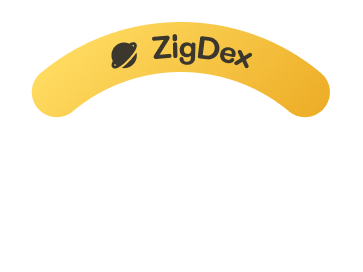
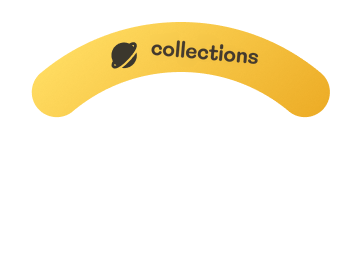
Rename collection screens in both homepage prototypes

Changed region(s): [[0.3939, 0.1176, 0.7273, 0.2647]]

diff --git a/index.html b/index.html
@@ -227,7 +227,7 @@ html,.sidebar{--scroll-thumb:rgba(205,224,214,.36)}
 </div><ul><li><button type="button" class="ia-node" data-page="idle" aria-current="page"><small>-1级</small>Idle 页面</button><ul><li><button type="button" class="ia-node" data-page="apps"><small>0级</small>App 页面</button><div class="ui-options" role="group" aria-label="App 页面交互效果"><button type="button" data-ui="1" aria-pressed="false">UI1</button><button type="button" data-ui="1.1" aria-pressed="false">UI1.1</button><button type="button" data-ui="2" aria-pressed="false">UI2</button><button type="button" data-ui="3" aria-pressed="false">UI3</button><button type="button" data-ui="4" aria-pressed="false">UI4</button></div><ul><li><button type="button" class="ia-node" data-page="guide"><small>1级</small>图鉴列表</button><ul><li><button type="button" class="ia-node" data-page="guide-camera"><small>2级</small>图鉴拍摄</button></li></ul></li><li><button type="button" class="ia-node" data-page="camera"><small>1级</small>拍照探索</button><ul><li><button type="button" class="ia-node" data-page="photo-play"><small>2级</small>拍摄互动</button></li></ul></li><li><button type="button" class="ia-node" data-page="activities"><small>1级</small>游戏大厅</button><ul><li><button type="button" class="ia-node" data-page="game-1"><small>2级</small>游戏1:颜色小偷</button></li><li><button type="button" class="ia-node" data-page="game-2"><small>2级</small>游戏 2</button></li><li><button type="button" class="ia-node" data-page="game-3"><small>2级</small>游戏 3</button></li></ul></li><li><button type="button" class="ia-node" data-page="review"><small>1级</small>我的收藏</button><ul><li><button type="button" class="ia-node" data-page="badges"><small>2级</small>徽章列表</button></li><li><button type="button" class="ia-node" data-page="photos"><small>2级</small>照片列表</button></li><li><button type="button" class="ia-node" data-page="avatar"><small>2级</small>Avatar 选择</button></li></ul></li></ul></li></ul></li></ul></section><section class="prototype-notes" aria-label="备注"><h2>备注</h2><textarea aria-label="备注内容" placeholder="点击填写备注" rows="1"></textarea><div class="note-footer"><button type="button">保存</button><span role="status"></span></div></section></aside>
 <main class="device" aria-label="首页:方案1">
   <div class="shell"></div>
-  <section class="screen" id="screen" data-page="idle" aria-label="Screen"><div class="idle-scene idle-home"><img src="idle/particle.gif" alt=""><img src="idle/A7_loop.gif" alt="Zig"></div><div class="idle-scene ui1-scene" data-app-ui="1"><img src="idle/particle.gif" alt=""><svg class="ui1-ring" viewBox="0 0 480 480" aria-label="四色圆环菜单"></svg></div><div class="idle-scene ui11-scene" data-app-ui="1.1"><img src="idle/particle.gif" alt=""><svg viewBox="0 0 480 480" class="ui1-ring" aria-label="UI1.1 扇形菜单"><defs><linearGradient id="petal-light" x2="0" y2="1"><stop stop-color="#d7d7d7"/><stop offset="1" stop-color="#777"/></linearGradient></defs><g class="ui11-wheel"><g class="petal" data-entry="Snap" data-name="Snap" data-selected="true"><path class="blade" transform="translate(21 21)" d="M380.051 95.4214C387.061 90.0421 397.16 91.3356 402.013 98.72C425.426 134.344 438 176.139 438 219C438 261.861 425.426 303.656 402.013 339.28C397.16 346.664 387.061 347.958 380.051 342.579L235.543 231.694C227.196 225.289 227.196 212.711 235.543 206.306L380.051 95.4214Z"/><g transform="translate(394 240)"><g class="upright"><image x="-35" y="-35" width="70" height="70" href="ui1/center-Snap.svg"/></g></g></g><g class="petal" data-entry="ZigDex" data-name="ZigDex" data-selected="false"><path class="blade" transform="translate(21 21)" d="M95.4214 57.9493C90.0421 50.9388 91.3356 40.8402 98.72 35.9869C134.344 12.5735 176.139 2.10044e-06 219 2.61155e-06C261.861 3.12266e-06 303.656 12.5735 339.28 35.9869C346.664 40.8402 347.958 50.9388 342.579 57.9493L231.694 202.457C225.289 210.804 212.711 210.804 206.306 202.457L95.4214 57.9493Z"/><g transform="translate(240 86)"><g class="upright"><image x="-35" y="-35" width="70" height="70" href="ui1/ZigDex.svg"/></g></g></g><g class="petal" data-entry="Quest" data-name="Quest" data-selected="false"><path class="blade" transform="translate(21 21)" d="M57.9493 342.579C50.9388 347.958 40.8402 346.664 35.9869 339.28C12.5735 303.656 1.53986e-05 261.861 1.91456e-05 219C2.28926e-05 176.139 12.5735 134.344 35.9869 98.72C40.8402 91.3356 50.9388 90.0421 57.9493 95.4214L202.457 206.306C210.804 212.711 210.804 225.289 202.457 231.694L57.9493 342.579Z"/><g transform="translate(86 240)"><g class="upright"><image x="-35" y="-35" width="70" height="70" href="ui1/center-Quest.svg"/></g></g></g><g class="petal" data-entry="Hub" data-name="Hub" data-selected="false"><path class="blade" transform="translate(21 21)" d="M342.579 380.051C347.958 387.061 346.664 397.16 339.28 402.013C303.656 425.426 261.861 438 219 438C176.139 438 134.344 425.426 98.72 402.013C91.3356 397.16 90.0421 387.061 95.4214 380.051L206.306 235.543C212.711 227.196 225.289 227.196 231.694 235.543L342.579 380.051Z"/><g transform="translate(240 394)"><g class="upright"><image x="-35" y="-35" width="70" height="70" href="ui1/center-Hub.svg"/></g></g></g></g><image href="ui11/4.svg" x="147" y="147" width="185" height="185"/><text x="240" y="250" text-anchor="middle">Snap</text></svg></div><div class="idle-scene ui11-destination"></div><div class="idle-scene ui2-scene" data-app-ui="2"><img class="original-color" src="idle/particle.gif" alt=""><div class="costume" data-entry="Snap" data-selected="true"><div class="costume-follow"><div class="snap-props"><img class="original-color snap-flowers" alt="" src="ui2/snap-motion/flowers.png"><img class="original-color snap-focus" alt="" src="ui2/snap-motion/focus.png"></div></div><img class="original-color costume-character" alt="" src="idle/A7_loop.gif" style="left:0%;top:0%;width:100%;height:100%"><img alt="" src="ui2/30-8094.png" style="left:12.325846354166668%;top:0%;width:75.44537862141928%;height:56.588%"><img alt="" src="ui2/30-8098.png" style="left:5.192057291666667%;top:24.686686197916668%;width:15.1953125%;height:23.5400390625%"><img alt="" src="ui2/30-8101.png" style="left:79.61100260416667%;top:24.686686197916668%;width:15.1953125%;height:23.5400390625%"></div><div class="costume" data-entry="ZigDex" data-selected="false"><img class="original-color costume-character" alt="" src="idle/A7_loop.gif" style="left:0%;top:0%;width:100%;height:100%"><img alt="" src="ui2/30-8110.png" style="left:12.325846354166668%;top:0%;width:75.44537862141928%;height:56.588%"><div class="costume-follow"><img class="original-color" alt="" src="ui2/30-8114.png" style="left:22.291666666666668%;top:71.66666666666667%;width:30.26894251505534%;height:22.632548014322918%"></div><img alt="" src="ui2/30-8137.png" style="left:5.192057291666667%;top:24.686686197916668%;width:15.1953125%;height:23.5400390625%"><img alt="" src="ui2/30-8140.png" style="left:79.61100260416667%;top:24.686686197916668%;width:15.1953125%;height:23.5400390625%"></div><div class="costume" data-entry="Quest" data-selected="false"><img class="original-color costume-character" alt="" src="idle/A7_loop.gif" style="left:0%;top:0%;width:100%;height:100%"><img alt="" src="ui2/30-8149.png" style="left:12.325846354166668%;top:0%;width:75.44537862141928%;height:56.588%"><div class="costume-follow"><img class="original-color" alt="" src="ui2/30-8153.png" style="left:39.79166666666667%;top:55.62542485943595%;width:29.75397169087349%;height:18.81223263590376%"></div><img alt="" src="ui2/30-8173.png" style="left:5.192057291666667%;top:24.686686197916668%;width:15.1953125%;height:23.5400390625%"><img alt="" src="ui2/30-8176.png" style="left:79.61100260416667%;top:24.686686197916668%;width:15.1953125%;height:23.5400390625%"></div><div class="costume" data-entry="Hub" data-selected="false"><img class="original-color costume-character" alt="" src="idle/A7_loop.gif" style="left:0%;top:0%;width:100%;height:100%"><div class="costume-follow"><img class="original-color" alt="" src="ui2/30-8183.png" style="left:23.125%;top:62.29166666666667%;width:44.67936197916667%;height:18.137493133544922%"></div><img alt="" src="ui2/30-8193.png" style="left:12.325846354166668%;top:0%;width:75.44537862141928%;height:56.588%"><img alt="" src="ui2/30-8197.png" style="left:5.192057291666667%;top:24.686686197916668%;width:15.1953125%;height:23.5400390625%"><img alt="" src="ui2/30-8200.png" style="left:79.61100260416667%;top:24.686686197916668%;width:15.1953125%;height:23.5400390625%"></div></div><div class="idle-scene ui3-scene" data-app-ui="3"><img src="idle/particle.gif" alt=""><img class="bubble" src="ui3/Snap.svg" alt="Snap" data-entry="Snap" data-slot="0" data-selected="true"><img class="bubble" src="ui3/ZigDex.svg" alt="ZigDex" data-entry="ZigDex" data-slot="1" data-selected="false"><img class="bubble" src="ui3/Quest.svg" alt="Quest" data-entry="Quest" data-slot="2" data-selected="false"><img class="bubble" src="ui3/Hub.svg" alt="Hub" data-entry="Hub" data-slot="3" data-selected="false"></div><div class="idle-scene ui4-scene" data-app-ui="4"><img src="idle/particle.gif" alt=""><div class="landscape snap-landscape" role="img" aria-label="Snap" data-entry="Snap" data-selected="true"><svg viewBox="0 0 480 480" aria-hidden="true"><svg class="snap-device" x="112.00587306029047" y="227" width="113" height="140" viewBox="0 0 113 140" fill="none" xmlns="http://www.w3.org/2000/svg" xmlns:xlink="http://www.w3.org/1999/xlink">
+  <section class="screen" id="screen" data-page="idle" aria-label="Screen"><div class="idle-scene idle-home"><img src="idle/particle.gif" alt=""><img src="idle/A7_loop.gif" alt="Zig"></div><div class="idle-scene ui1-scene" data-app-ui="1"><img src="idle/particle.gif" alt=""><svg class="ui1-ring" viewBox="0 0 480 480" aria-label="四色圆环菜单"></svg></div><div class="idle-scene ui11-scene" data-app-ui="1.1"><img src="idle/particle.gif" alt=""><svg viewBox="0 0 480 480" class="ui1-ring" aria-label="UI1.1 扇形菜单"><defs><linearGradient id="petal-light" x2="0" y2="1"><stop stop-color="#d7d7d7"/><stop offset="1" stop-color="#777"/></linearGradient></defs><g class="ui11-wheel"><g class="petal" data-entry="Snap" data-name="Snap" data-selected="true"><path class="blade" transform="translate(21 21)" d="M380.051 95.4214C387.061 90.0421 397.16 91.3356 402.013 98.72C425.426 134.344 438 176.139 438 219C438 261.861 425.426 303.656 402.013 339.28C397.16 346.664 387.061 347.958 380.051 342.579L235.543 231.694C227.196 225.289 227.196 212.711 235.543 206.306L380.051 95.4214Z"/><g transform="translate(394 240)"><g class="upright"><image x="-35" y="-35" width="70" height="70" href="ui1/center-Snap.svg"/></g></g></g><g class="petal" data-entry="ZigDex" data-name="collections" data-selected="false"><path class="blade" transform="translate(21 21)" d="M95.4214 57.9493C90.0421 50.9388 91.3356 40.8402 98.72 35.9869C134.344 12.5735 176.139 2.10044e-06 219 2.61155e-06C261.861 3.12266e-06 303.656 12.5735 339.28 35.9869C346.664 40.8402 347.958 50.9388 342.579 57.9493L231.694 202.457C225.289 210.804 212.711 210.804 206.306 202.457L95.4214 57.9493Z"/><g transform="translate(240 86)"><g class="upright"><image x="-35" y="-35" width="70" height="70" href="ui1/ZigDex.svg"/></g></g></g><g class="petal" data-entry="Quest" data-name="Quest" data-selected="false"><path class="blade" transform="translate(21 21)" d="M57.9493 342.579C50.9388 347.958 40.8402 346.664 35.9869 339.28C12.5735 303.656 1.53986e-05 261.861 1.91456e-05 219C2.28926e-05 176.139 12.5735 134.344 35.9869 98.72C40.8402 91.3356 50.9388 90.0421 57.9493 95.4214L202.457 206.306C210.804 212.711 210.804 225.289 202.457 231.694L57.9493 342.579Z"/><g transform="translate(86 240)"><g class="upright"><image x="-35" y="-35" width="70" height="70" href="ui1/center-Quest.svg"/></g></g></g><g class="petal" data-entry="Hub" data-name="Discoveries" data-selected="false"><path class="blade" transform="translate(21 21)" d="M342.579 380.051C347.958 387.061 346.664 397.16 339.28 402.013C303.656 425.426 261.861 438 219 438C176.139 438 134.344 425.426 98.72 402.013C91.3356 397.16 90.0421 387.061 95.4214 380.051L206.306 235.543C212.711 227.196 225.289 227.196 231.694 235.543L342.579 380.051Z"/><g transform="translate(240 394)"><g class="upright"><image x="-35" y="-35" width="70" height="70" href="ui1/center-Hub.svg"/></g></g></g></g><image href="ui11/4.svg" x="147" y="147" width="185" height="185"/><text x="240" y="250" text-anchor="middle">Snap</text></svg></div><div class="idle-scene ui11-destination"></div><div class="idle-scene ui2-scene" data-app-ui="2"><img class="original-color" src="idle/particle.gif" alt=""><div class="costume" data-entry="Snap" data-selected="true"><div class="costume-follow"><div class="snap-props"><img class="original-color snap-flowers" alt="" src="ui2/snap-motion/flowers.png"><img class="original-color snap-focus" alt="" src="ui2/snap-motion/focus.png"></div></div><img class="original-color costume-character" alt="" src="idle/A7_loop.gif" style="left:0%;top:0%;width:100%;height:100%"><img alt="" src="ui2/30-8094.png" style="left:12.325846354166668%;top:0%;width:75.44537862141928%;height:56.588%"><img alt="" src="ui2/30-8098.png" style="left:5.192057291666667%;top:24.686686197916668%;width:15.1953125%;height:23.5400390625%"><img alt="" src="ui2/30-8101.png" style="left:79.61100260416667%;top:24.686686197916668%;width:15.1953125%;height:23.5400390625%"></div><div class="costume" data-entry="ZigDex" data-selected="false"><img class="original-color costume-character" alt="" src="idle/A7_loop.gif" style="left:0%;top:0%;width:100%;height:100%"><img alt="" src="ui2/30-8110.png" style="left:12.325846354166668%;top:0%;width:75.44537862141928%;height:56.588%"><div class="costume-follow"><img class="original-color" alt="" src="ui2/30-8114.png" style="left:22.291666666666668%;top:71.66666666666667%;width:30.26894251505534%;height:22.632548014322918%"></div><img alt="" src="ui2/30-8137.png" style="left:5.192057291666667%;top:24.686686197916668%;width:15.1953125%;height:23.5400390625%"><img alt="" src="ui2/30-8140.png" style="left:79.61100260416667%;top:24.686686197916668%;width:15.1953125%;height:23.5400390625%"></div><div class="costume" data-entry="Quest" data-selected="false"><img class="original-color costume-character" alt="" src="idle/A7_loop.gif" style="left:0%;top:0%;width:100%;height:100%"><img alt="" src="ui2/30-8149.png" style="left:12.325846354166668%;top:0%;width:75.44537862141928%;height:56.588%"><div class="costume-follow"><img class="original-color" alt="" src="ui2/30-8153.png" style="left:39.79166666666667%;top:55.62542485943595%;width:29.75397169087349%;height:18.81223263590376%"></div><img alt="" src="ui2/30-8173.png" style="left:5.192057291666667%;top:24.686686197916668%;width:15.1953125%;height:23.5400390625%"><img alt="" src="ui2/30-8176.png" style="left:79.61100260416667%;top:24.686686197916668%;width:15.1953125%;height:23.5400390625%"></div><div class="costume" data-entry="Hub" data-selected="false"><img class="original-color costume-character" alt="" src="idle/A7_loop.gif" style="left:0%;top:0%;width:100%;height:100%"><div class="costume-follow"><img class="original-color" alt="" src="ui2/30-8183.png" style="left:23.125%;top:62.29166666666667%;width:44.67936197916667%;height:18.137493133544922%"></div><img alt="" src="ui2/30-8193.png" style="left:12.325846354166668%;top:0%;width:75.44537862141928%;height:56.588%"><img alt="" src="ui2/30-8197.png" style="left:5.192057291666667%;top:24.686686197916668%;width:15.1953125%;height:23.5400390625%"><img alt="" src="ui2/30-8200.png" style="left:79.61100260416667%;top:24.686686197916668%;width:15.1953125%;height:23.5400390625%"></div></div><div class="idle-scene ui3-scene" data-app-ui="3"><img src="idle/particle.gif" alt=""><img class="bubble" src="ui3/Snap.svg" alt="Snap" data-entry="Snap" data-slot="0" data-selected="true"><img class="bubble" src="ui3/ZigDex.svg" alt="collections" data-entry="ZigDex" data-slot="1" data-selected="false"><img class="bubble" src="ui3/Quest.svg" alt="Quest" data-entry="Quest" data-slot="2" data-selected="false"><img class="bubble" src="ui3/Hub.svg" alt="Discoveries" data-entry="Hub" data-slot="3" data-selected="false"></div><div class="idle-scene ui4-scene" data-app-ui="4"><img src="idle/particle.gif" alt=""><div class="landscape snap-landscape" role="img" aria-label="Snap" data-entry="Snap" data-selected="true"><svg viewBox="0 0 480 480" aria-hidden="true"><svg class="snap-device" x="112.00587306029047" y="227" width="113" height="140" viewBox="0 0 113 140" fill="none" xmlns="http://www.w3.org/2000/svg" xmlns:xlink="http://www.w3.org/1999/xlink">
 <path d="M58.3799 10.1583L40.4849 12.0713L59.5565 131.726C59.5565 131.726 68.7617 131.503 73.8011 130.745C78.8406 129.988 82.3379 124.794 84.6271 118.033C86.9162 111.271 102.034 32.7639 102.034 32.7639C102.034 32.7639 103.025 25.1279 97.2383 20.8477C91.452 16.5675 58.3799 10.1583 58.3799 10.1583Z" fill="#615C56"/>
 <ellipse cx="81.09" cy="59.4416" rx="11.4399" ry="14.7" transform="rotate(11.46 81.09 59.4416)" fill="#CDC8C0"/>
 <path d="M20.2711 34.2289L27.8949 34.2902C29.5409 34.3035 30.7325 35.8655 30.3103 37.4565L21.4148 70.9776C20.6435 73.884 16.3471 73.2408 16.4609 70.2359L17.7326 36.6535C17.7842 35.292 18.9086 34.218 20.2711 34.2289Z" fill="#625C56"/>
@@ -310,7 +310,7 @@ html,.sidebar{--scroll-thumb:rgba(205,224,214,.36)}
 <path d="M8.02291 0.97754C8.50615 -0.328387 10.3532 -0.328387 10.8365 0.97754L12.4989 5.47031C12.6509 5.88089 12.9746 6.2046 13.3852 6.35653L17.8779 8.019C19.1839 8.50224 19.1839 10.3493 17.8779 10.8326L13.3852 12.495C12.9746 12.647 12.6509 12.9707 12.4989 13.3813L10.8365 17.874C10.3532 19.1799 8.50615 19.1799 8.02291 17.874L6.36044 13.3813C6.20851 12.9707 5.88479 12.647 5.47421 12.495L0.981446 10.8326C-0.324481 10.3493 -0.324481 8.50224 0.981446 8.019L5.47421 6.35653C5.88479 6.2046 6.20851 5.88089 6.36044 5.47031L8.02291 0.97754Z" fill="#FFC53F"/>
 </svg>
 
-<image x="83.328125" y="44.46875" width="115" height="77" href="ui4/Snap-title.svg"/></svg></div><div class="landscape zigdex-landscape" role="img" aria-label="ZigDex" data-entry="ZigDex" data-selected="false"><svg viewBox="0 0 480 480" aria-hidden="true"><svg class="dex-beam" x="0" y="164.87109375" width="134" height="163" viewBox="0 0 134 163" fill="none" xmlns="http://www.w3.org/2000/svg">
+<image x="83.328125" y="44.46875" width="115" height="77" href="ui4/Snap-title.svg"/></svg></div><div class="landscape zigdex-landscape" role="img" aria-label="collections" data-entry="ZigDex" data-selected="false"><svg viewBox="0 0 480 480" aria-hidden="true"><svg class="dex-beam" x="0" y="164.87109375" width="134" height="163" viewBox="0 0 134 163" fill="none" xmlns="http://www.w3.org/2000/svg">
 <path d="M-6.69531 162.265L48.3895 0H79.1346L133.365 162.265H-6.69531Z" fill="url(#paint0_linear_30_11579)"/>
 <defs>
 <linearGradient id="paint0_linear_30_11579" x1="63.335" y1="-28.3635" x2="63.335" y2="162.265" gradientUnits="userSpaceOnUse">
@@ -494,7 +494,7 @@ html,.sidebar{--scroll-thumb:rgba(205,224,214,.36)}
 </defs>
 <image x="83.828125" y="30.8203125" width="157" height="93" href="ui4/Quest-title.svg"/></svg>
 
-</div><div class="landscape hub-landscape" role="img" aria-label="Hub" data-entry="Hub" data-selected="false"><svg viewBox="0 0 480 480" aria-hidden="true"><image class="hub-zig" href="ui4/Hub-zig.png" x="205" y="199" width="213" height="213"/><image class="hub-photo" href="ui4/Hub-photo.png" x="26.117" y="179.648" width="125" height="124"/><image class="hub-badge" href="ui4/Hub-badge.png" x="248" y="35" width="123" height="134"/><image class="" href="ui4/Hub-glass.png" x="198" y="182" width="101" height="100"/><g class="hub-lens"><image class="" href="ui4/Hub-lens.png" x="138.125" y="151.305" width="192" height="225"/></g><image href="ui4/Hub-title.svg" x="84.65625" y="42.3046875" width="90" height="78"/></svg></div><div class="ui4-dots" aria-hidden="true"><i class="active"></i><i></i><i></i><i></i></div></div></section>
+</div><div class="landscape hub-landscape" role="img" aria-label="Discoveries" data-entry="Hub" data-selected="false"><svg viewBox="0 0 480 480" aria-hidden="true"><image class="hub-zig" href="ui4/Hub-zig.png" x="205" y="199" width="213" height="213"/><image class="hub-photo" href="ui4/Hub-photo.png" x="26.117" y="179.648" width="125" height="124"/><image class="hub-badge" href="ui4/Hub-badge.png" x="248" y="35" width="123" height="134"/><image class="" href="ui4/Hub-glass.png" x="198" y="182" width="101" height="100"/><g class="hub-lens"><image class="" href="ui4/Hub-lens.png" x="138.125" y="151.305" width="192" height="225"/></g><image href="ui4/Hub-title.svg" x="69" y="30" width="205" height="105"/></svg></div><div class="ui4-dots" aria-hidden="true"><i class="active"></i><i></i><i></i><i></i></div></div></section>
   <button class="control shutter" data-control="photo" type="button" aria-label="拍照键"></button>
   <button class="control speech" data-control="talk" type="button" aria-label="说话键" aria-pressed="false"></button>
   <button class="control wheel" data-control="wheel" type="button" aria-label="滚轮，旋转或按下"></button>
@@ -609,7 +609,7 @@ window.homeDevice.onInput(async ({control, action, direction, source}) => {
     sectorStep += source === 'keyboard' ? direction : -direction;
     document.querySelector('.ui11-wheel').style.transform = 'rotate(' + (-sectorStep * 90) + 'deg)';
     const selected = sectorNames[(sectorStep % 4 + 4) % 4];
-    document.querySelector('.ui11-scene text').textContent = selected;
+    document.querySelector('.ui11-scene text').textContent = ({ ZigDex: 'collections', Hub: 'Discoveries' })[selected] || selected;
     for (const petal of petals) {
       petal.dataset.selected = String(petal.dataset.name === selected);
       petal.querySelector('.upright').style.transform = 'rotate(' + sectorStep * 90 + 'deg)';

diff --git a/plan1.html b/plan1.html
@@ -227,7 +227,7 @@ html,.sidebar{--scroll-thumb:rgba(205,224,214,.36)}
 </div><ul><li><button type="button" class="ia-node" data-page="apps"><small>0级</small>App 页面</button><div class="ui-options" role="group" aria-label="App 页面交互效果"><button type="button" data-ui="1" aria-pressed="false">UI1</button><button type="button" data-ui="1.1" aria-pressed="false">UI1.1</button><button type="button" data-ui="2" aria-pressed="false">UI2</button><button type="button" data-ui="3" aria-pressed="false">UI3</button><button type="button" data-ui="4" aria-pressed="false">UI4</button></div><ul><li><button type="button" class="ia-node" data-page="guide"><small>1级</small>图鉴列表</button><ul><li><button type="button" class="ia-node" data-page="guide-camera"><small>2级</small>图鉴拍摄</button></li></ul></li><li><button type="button" class="ia-node" data-page="camera"><small>1级</small>拍照探索</button><ul><li><button type="button" class="ia-node" data-page="photo-play"><small>2级</small>拍摄互动</button></li></ul></li><li><button type="button" class="ia-node" data-page="activities"><small>1级</small>游戏大厅</button><ul><li><button type="button" class="ia-node" data-page="game-1"><small>2级</small>游戏1:颜色小偷</button></li><li><button type="button" class="ia-node" data-page="game-2"><small>2级</small>游戏 2</button></li><li><button type="button" class="ia-node" data-page="game-3"><small>2级</small>游戏 3</button></li></ul></li><li><button type="button" class="ia-node" data-page="review"><small>1级</small>我的收藏</button><ul><li><button type="button" class="ia-node" data-page="badges"><small>2级</small>徽章列表</button></li><li><button type="button" class="ia-node" data-page="photos"><small>2级</small>照片列表</button></li><li><button type="button" class="ia-node" data-page="avatar"><small>2级</small>Avatar 选择</button></li></ul></li></ul></li></ul></section><section class="prototype-notes" aria-label="备注"><h2>备注</h2><textarea aria-label="备注内容" placeholder="点击填写备注" rows="1"></textarea><div class="note-footer"><button type="button">保存</button><span role="status"></span></div></section></aside>
 <main class="device" aria-label="首页:方案2">
   <div class="shell"></div>
-  <section class="screen" id="screen" data-page="idle" aria-label="Screen"><div class="idle-scene idle-home"><img src="idle/particle.gif" alt=""><img src="idle/A7_loop.gif" alt="Zig"></div><div class="idle-scene ui1-scene" data-app-ui="1"><img src="idle/particle.gif" alt=""><svg class="ui1-ring" viewBox="0 0 480 480" aria-label="四色圆环菜单"></svg></div><div class="idle-scene ui11-scene" data-app-ui="1.1"><img src="idle/particle.gif" alt=""><svg viewBox="0 0 480 480" class="ui1-ring" aria-label="UI1.1 扇形菜单"><defs><linearGradient id="petal-light" x2="0" y2="1"><stop stop-color="#d7d7d7"/><stop offset="1" stop-color="#777"/></linearGradient></defs><g class="ui11-wheel"><g class="petal" data-entry="Snap" data-name="Snap" data-selected="true"><path class="blade" transform="translate(21 21)" d="M380.051 95.4214C387.061 90.0421 397.16 91.3356 402.013 98.72C425.426 134.344 438 176.139 438 219C438 261.861 425.426 303.656 402.013 339.28C397.16 346.664 387.061 347.958 380.051 342.579L235.543 231.694C227.196 225.289 227.196 212.711 235.543 206.306L380.051 95.4214Z"/><g transform="translate(394 240)"><g class="upright"><image x="-35" y="-35" width="70" height="70" href="ui1/center-Snap.svg"/></g></g></g><g class="petal" data-entry="ZigDex" data-name="ZigDex" data-selected="false"><path class="blade" transform="translate(21 21)" d="M95.4214 57.9493C90.0421 50.9388 91.3356 40.8402 98.72 35.9869C134.344 12.5735 176.139 2.10044e-06 219 2.61155e-06C261.861 3.12266e-06 303.656 12.5735 339.28 35.9869C346.664 40.8402 347.958 50.9388 342.579 57.9493L231.694 202.457C225.289 210.804 212.711 210.804 206.306 202.457L95.4214 57.9493Z"/><g transform="translate(240 86)"><g class="upright"><image x="-35" y="-35" width="70" height="70" href="ui1/ZigDex.svg"/></g></g></g><g class="petal" data-entry="Quest" data-name="Quest" data-selected="false"><path class="blade" transform="translate(21 21)" d="M57.9493 342.579C50.9388 347.958 40.8402 346.664 35.9869 339.28C12.5735 303.656 1.53986e-05 261.861 1.91456e-05 219C2.28926e-05 176.139 12.5735 134.344 35.9869 98.72C40.8402 91.3356 50.9388 90.0421 57.9493 95.4214L202.457 206.306C210.804 212.711 210.804 225.289 202.457 231.694L57.9493 342.579Z"/><g transform="translate(86 240)"><g class="upright"><image x="-35" y="-35" width="70" height="70" href="ui1/center-Quest.svg"/></g></g></g><g class="petal" data-entry="Hub" data-name="Hub" data-selected="false"><path class="blade" transform="translate(21 21)" d="M342.579 380.051C347.958 387.061 346.664 397.16 339.28 402.013C303.656 425.426 261.861 438 219 438C176.139 438 134.344 425.426 98.72 402.013C91.3356 397.16 90.0421 387.061 95.4214 380.051L206.306 235.543C212.711 227.196 225.289 227.196 231.694 235.543L342.579 380.051Z"/><g transform="translate(240 394)"><g class="upright"><image x="-35" y="-35" width="70" height="70" href="ui1/center-Hub.svg"/></g></g></g></g><image href="ui11/4.svg" x="147" y="147" width="185" height="185"/><text x="240" y="250" text-anchor="middle">Snap</text></svg></div><div class="idle-scene ui11-destination"></div><div class="idle-scene ui2-scene" data-app-ui="2"><img class="original-color" src="idle/particle.gif" alt=""><div class="costume" data-entry="Snap" data-selected="true"><div class="costume-follow"><div class="snap-props"><img class="original-color snap-flowers" alt="" src="ui2/snap-motion/flowers.png"><img class="original-color snap-focus" alt="" src="ui2/snap-motion/focus.png"></div></div><img class="original-color costume-character" alt="" src="idle/A7_loop.gif" style="left:0%;top:0%;width:100%;height:100%"><img alt="" src="ui2/30-8094.png" style="left:12.325846354166668%;top:0%;width:75.44537862141928%;height:56.588%"><img alt="" src="ui2/30-8098.png" style="left:5.192057291666667%;top:24.686686197916668%;width:15.1953125%;height:23.5400390625%"><img alt="" src="ui2/30-8101.png" style="left:79.61100260416667%;top:24.686686197916668%;width:15.1953125%;height:23.5400390625%"></div><div class="costume" data-entry="ZigDex" data-selected="false"><img class="original-color costume-character" alt="" src="idle/A7_loop.gif" style="left:0%;top:0%;width:100%;height:100%"><img alt="" src="ui2/30-8110.png" style="left:12.325846354166668%;top:0%;width:75.44537862141928%;height:56.588%"><div class="costume-follow"><img class="original-color" alt="" src="ui2/30-8114.png" style="left:22.291666666666668%;top:71.66666666666667%;width:30.26894251505534%;height:22.632548014322918%"></div><img alt="" src="ui2/30-8137.png" style="left:5.192057291666667%;top:24.686686197916668%;width:15.1953125%;height:23.5400390625%"><img alt="" src="ui2/30-8140.png" style="left:79.61100260416667%;top:24.686686197916668%;width:15.1953125%;height:23.5400390625%"></div><div class="costume" data-entry="Quest" data-selected="false"><img class="original-color costume-character" alt="" src="idle/A7_loop.gif" style="left:0%;top:0%;width:100%;height:100%"><img alt="" src="ui2/30-8149.png" style="left:12.325846354166668%;top:0%;width:75.44537862141928%;height:56.588%"><div class="costume-follow"><img class="original-color" alt="" src="ui2/30-8153.png" style="left:39.79166666666667%;top:55.62542485943595%;width:29.75397169087349%;height:18.81223263590376%"></div><img alt="" src="ui2/30-8173.png" style="left:5.192057291666667%;top:24.686686197916668%;width:15.1953125%;height:23.5400390625%"><img alt="" src="ui2/30-8176.png" style="left:79.61100260416667%;top:24.686686197916668%;width:15.1953125%;height:23.5400390625%"></div><div class="costume" data-entry="Hub" data-selected="false"><img class="original-color costume-character" alt="" src="idle/A7_loop.gif" style="left:0%;top:0%;width:100%;height:100%"><div class="costume-follow"><img class="original-color" alt="" src="ui2/30-8183.png" style="left:23.125%;top:62.29166666666667%;width:44.67936197916667%;height:18.137493133544922%"></div><img alt="" src="ui2/30-8193.png" style="left:12.325846354166668%;top:0%;width:75.44537862141928%;height:56.588%"><img alt="" src="ui2/30-8197.png" style="left:5.192057291666667%;top:24.686686197916668%;width:15.1953125%;height:23.5400390625%"><img alt="" src="ui2/30-8200.png" style="left:79.61100260416667%;top:24.686686197916668%;width:15.1953125%;height:23.5400390625%"></div></div><div class="idle-scene ui3-scene" data-app-ui="3"><img src="idle/particle.gif" alt=""><img class="bubble" src="ui3/Snap.svg" alt="Snap" data-entry="Snap" data-slot="0" data-selected="true"><img class="bubble" src="ui3/ZigDex.svg" alt="ZigDex" data-entry="ZigDex" data-slot="1" data-selected="false"><img class="bubble" src="ui3/Quest.svg" alt="Quest" data-entry="Quest" data-slot="2" data-selected="false"><img class="bubble" src="ui3/Hub.svg" alt="Hub" data-entry="Hub" data-slot="3" data-selected="false"></div><div class="idle-scene ui4-scene" data-app-ui="4"><img src="idle/particle.gif" alt=""><div class="landscape snap-landscape" role="img" aria-label="Snap" data-entry="Snap" data-selected="true"><svg viewBox="0 0 480 480" aria-hidden="true"><svg class="snap-device" x="112.00587306029047" y="227" width="113" height="140" viewBox="0 0 113 140" fill="none" xmlns="http://www.w3.org/2000/svg" xmlns:xlink="http://www.w3.org/1999/xlink">
+  <section class="screen" id="screen" data-page="idle" aria-label="Screen"><div class="idle-scene idle-home"><img src="idle/particle.gif" alt=""><img src="idle/A7_loop.gif" alt="Zig"></div><div class="idle-scene ui1-scene" data-app-ui="1"><img src="idle/particle.gif" alt=""><svg class="ui1-ring" viewBox="0 0 480 480" aria-label="四色圆环菜单"></svg></div><div class="idle-scene ui11-scene" data-app-ui="1.1"><img src="idle/particle.gif" alt=""><svg viewBox="0 0 480 480" class="ui1-ring" aria-label="UI1.1 扇形菜单"><defs><linearGradient id="petal-light" x2="0" y2="1"><stop stop-color="#d7d7d7"/><stop offset="1" stop-color="#777"/></linearGradient></defs><g class="ui11-wheel"><g class="petal" data-entry="Snap" data-name="Snap" data-selected="true"><path class="blade" transform="translate(21 21)" d="M380.051 95.4214C387.061 90.0421 397.16 91.3356 402.013 98.72C425.426 134.344 438 176.139 438 219C438 261.861 425.426 303.656 402.013 339.28C397.16 346.664 387.061 347.958 380.051 342.579L235.543 231.694C227.196 225.289 227.196 212.711 235.543 206.306L380.051 95.4214Z"/><g transform="translate(394 240)"><g class="upright"><image x="-35" y="-35" width="70" height="70" href="ui1/center-Snap.svg"/></g></g></g><g class="petal" data-entry="ZigDex" data-name="collections" data-selected="false"><path class="blade" transform="translate(21 21)" d="M95.4214 57.9493C90.0421 50.9388 91.3356 40.8402 98.72 35.9869C134.344 12.5735 176.139 2.10044e-06 219 2.61155e-06C261.861 3.12266e-06 303.656 12.5735 339.28 35.9869C346.664 40.8402 347.958 50.9388 342.579 57.9493L231.694 202.457C225.289 210.804 212.711 210.804 206.306 202.457L95.4214 57.9493Z"/><g transform="translate(240 86)"><g class="upright"><image x="-35" y="-35" width="70" height="70" href="ui1/ZigDex.svg"/></g></g></g><g class="petal" data-entry="Quest" data-name="Quest" data-selected="false"><path class="blade" transform="translate(21 21)" d="M57.9493 342.579C50.9388 347.958 40.8402 346.664 35.9869 339.28C12.5735 303.656 1.53986e-05 261.861 1.91456e-05 219C2.28926e-05 176.139 12.5735 134.344 35.9869 98.72C40.8402 91.3356 50.9388 90.0421 57.9493 95.4214L202.457 206.306C210.804 212.711 210.804 225.289 202.457 231.694L57.9493 342.579Z"/><g transform="translate(86 240)"><g class="upright"><image x="-35" y="-35" width="70" height="70" href="ui1/center-Quest.svg"/></g></g></g><g class="petal" data-entry="Hub" data-name="Discoveries" data-selected="false"><path class="blade" transform="translate(21 21)" d="M342.579 380.051C347.958 387.061 346.664 397.16 339.28 402.013C303.656 425.426 261.861 438 219 438C176.139 438 134.344 425.426 98.72 402.013C91.3356 397.16 90.0421 387.061 95.4214 380.051L206.306 235.543C212.711 227.196 225.289 227.196 231.694 235.543L342.579 380.051Z"/><g transform="translate(240 394)"><g class="upright"><image x="-35" y="-35" width="70" height="70" href="ui1/center-Hub.svg"/></g></g></g></g><image href="ui11/4.svg" x="147" y="147" width="185" height="185"/><text x="240" y="250" text-anchor="middle">Snap</text></svg></div><div class="idle-scene ui11-destination"></div><div class="idle-scene ui2-scene" data-app-ui="2"><img class="original-color" src="idle/particle.gif" alt=""><div class="costume" data-entry="Snap" data-selected="true"><div class="costume-follow"><div class="snap-props"><img class="original-color snap-flowers" alt="" src="ui2/snap-motion/flowers.png"><img class="original-color snap-focus" alt="" src="ui2/snap-motion/focus.png"></div></div><img class="original-color costume-character" alt="" src="idle/A7_loop.gif" style="left:0%;top:0%;width:100%;height:100%"><img alt="" src="ui2/30-8094.png" style="left:12.325846354166668%;top:0%;width:75.44537862141928%;height:56.588%"><img alt="" src="ui2/30-8098.png" style="left:5.192057291666667%;top:24.686686197916668%;width:15.1953125%;height:23.5400390625%"><img alt="" src="ui2/30-8101.png" style="left:79.61100260416667%;top:24.686686197916668%;width:15.1953125%;height:23.5400390625%"></div><div class="costume" data-entry="ZigDex" data-selected="false"><img class="original-color costume-character" alt="" src="idle/A7_loop.gif" style="left:0%;top:0%;width:100%;height:100%"><img alt="" src="ui2/30-8110.png" style="left:12.325846354166668%;top:0%;width:75.44537862141928%;height:56.588%"><div class="costume-follow"><img class="original-color" alt="" src="ui2/30-8114.png" style="left:22.291666666666668%;top:71.66666666666667%;width:30.26894251505534%;height:22.632548014322918%"></div><img alt="" src="ui2/30-8137.png" style="left:5.192057291666667%;top:24.686686197916668%;width:15.1953125%;height:23.5400390625%"><img alt="" src="ui2/30-8140.png" style="left:79.61100260416667%;top:24.686686197916668%;width:15.1953125%;height:23.5400390625%"></div><div class="costume" data-entry="Quest" data-selected="false"><img class="original-color costume-character" alt="" src="idle/A7_loop.gif" style="left:0%;top:0%;width:100%;height:100%"><img alt="" src="ui2/30-8149.png" style="left:12.325846354166668%;top:0%;width:75.44537862141928%;height:56.588%"><div class="costume-follow"><img class="original-color" alt="" src="ui2/30-8153.png" style="left:39.79166666666667%;top:55.62542485943595%;width:29.75397169087349%;height:18.81223263590376%"></div><img alt="" src="ui2/30-8173.png" style="left:5.192057291666667%;top:24.686686197916668%;width:15.1953125%;height:23.5400390625%"><img alt="" src="ui2/30-8176.png" style="left:79.61100260416667%;top:24.686686197916668%;width:15.1953125%;height:23.5400390625%"></div><div class="costume" data-entry="Hub" data-selected="false"><img class="original-color costume-character" alt="" src="idle/A7_loop.gif" style="left:0%;top:0%;width:100%;height:100%"><div class="costume-follow"><img class="original-color" alt="" src="ui2/30-8183.png" style="left:23.125%;top:62.29166666666667%;width:44.67936197916667%;height:18.137493133544922%"></div><img alt="" src="ui2/30-8193.png" style="left:12.325846354166668%;top:0%;width:75.44537862141928%;height:56.588%"><img alt="" src="ui2/30-8197.png" style="left:5.192057291666667%;top:24.686686197916668%;width:15.1953125%;height:23.5400390625%"><img alt="" src="ui2/30-8200.png" style="left:79.61100260416667%;top:24.686686197916668%;width:15.1953125%;height:23.5400390625%"></div></div><div class="idle-scene ui3-scene" data-app-ui="3"><img src="idle/particle.gif" alt=""><img class="bubble" src="ui3/Snap.svg" alt="Snap" data-entry="Snap" data-slot="0" data-selected="true"><img class="bubble" src="ui3/ZigDex.svg" alt="collections" data-entry="ZigDex" data-slot="1" data-selected="false"><img class="bubble" src="ui3/Quest.svg" alt="Quest" data-entry="Quest" data-slot="2" data-selected="false"><img class="bubble" src="ui3/Hub.svg" alt="Discoveries" data-entry="Hub" data-slot="3" data-selected="false"></div><div class="idle-scene ui4-scene" data-app-ui="4"><img src="idle/particle.gif" alt=""><div class="landscape snap-landscape" role="img" aria-label="Snap" data-entry="Snap" data-selected="true"><svg viewBox="0 0 480 480" aria-hidden="true"><svg class="snap-device" x="112.00587306029047" y="227" width="113" height="140" viewBox="0 0 113 140" fill="none" xmlns="http://www.w3.org/2000/svg" xmlns:xlink="http://www.w3.org/1999/xlink">
 <path d="M58.3799 10.1583L40.4849 12.0713L59.5565 131.726C59.5565 131.726 68.7617 131.503 73.8011 130.745C78.8406 129.988 82.3379 124.794 84.6271 118.033C86.9162 111.271 102.034 32.7639 102.034 32.7639C102.034 32.7639 103.025 25.1279 97.2383 20.8477C91.452 16.5675 58.3799 10.1583 58.3799 10.1583Z" fill="#615C56"/>
 <ellipse cx="81.09" cy="59.4416" rx="11.4399" ry="14.7" transform="rotate(11.46 81.09 59.4416)" fill="#CDC8C0"/>
 <path d="M20.2711 34.2289L27.8949 34.2902C29.5409 34.3035 30.7325 35.8655 30.3103 37.4565L21.4148 70.9776C20.6435 73.884 16.3471 73.2408 16.4609 70.2359L17.7326 36.6535C17.7842 35.292 18.9086 34.218 20.2711 34.2289Z" fill="#625C56"/>
@@ -310,7 +310,7 @@ html,.sidebar{--scroll-thumb:rgba(205,224,214,.36)}
 <path d="M8.02291 0.97754C8.50615 -0.328387 10.3532 -0.328387 10.8365 0.97754L12.4989 5.47031C12.6509 5.88089 12.9746 6.2046 13.3852 6.35653L17.8779 8.019C19.1839 8.50224 19.1839 10.3493 17.8779 10.8326L13.3852 12.495C12.9746 12.647 12.6509 12.9707 12.4989 13.3813L10.8365 17.874C10.3532 19.1799 8.50615 19.1799 8.02291 17.874L6.36044 13.3813C6.20851 12.9707 5.88479 12.647 5.47421 12.495L0.981446 10.8326C-0.324481 10.3493 -0.324481 8.50224 0.981446 8.019L5.47421 6.35653C5.88479 6.2046 6.20851 5.88089 6.36044 5.47031L8.02291 0.97754Z" fill="#FFC53F"/>
 </svg>
 
-<image x="83.328125" y="44.46875" width="115" height="77" href="ui4/Snap-title.svg"/></svg></div><div class="landscape zigdex-landscape" role="img" aria-label="ZigDex" data-entry="ZigDex" data-selected="false"><svg viewBox="0 0 480 480" aria-hidden="true"><svg class="dex-beam" x="0" y="164.87109375" width="134" height="163" viewBox="0 0 134 163" fill="none" xmlns="http://www.w3.org/2000/svg">
+<image x="83.328125" y="44.46875" width="115" height="77" href="ui4/Snap-title.svg"/></svg></div><div class="landscape zigdex-landscape" role="img" aria-label="collections" data-entry="ZigDex" data-selected="false"><svg viewBox="0 0 480 480" aria-hidden="true"><svg class="dex-beam" x="0" y="164.87109375" width="134" height="163" viewBox="0 0 134 163" fill="none" xmlns="http://www.w3.org/2000/svg">
 <path d="M-6.69531 162.265L48.3895 0H79.1346L133.365 162.265H-6.69531Z" fill="url(#paint0_linear_30_11579)"/>
 <defs>
 <linearGradient id="paint0_linear_30_11579" x1="63.335" y1="-28.3635" x2="63.335" y2="162.265" gradientUnits="userSpaceOnUse">
@@ -494,7 +494,7 @@ html,.sidebar{--scroll-thumb:rgba(205,224,214,.36)}
 </defs>
 <image x="83.828125" y="30.8203125" width="157" height="93" href="ui4/Quest-title.svg"/></svg>
 
-</div><div class="landscape hub-landscape" role="img" aria-label="Hub" data-entry="Hub" data-selected="false"><svg viewBox="0 0 480 480" aria-hidden="true"><image class="hub-zig" href="ui4/Hub-zig.png" x="205" y="199" width="213" height="213"/><image class="hub-photo" href="ui4/Hub-photo.png" x="26.117" y="179.648" width="125" height="124"/><image class="hub-badge" href="ui4/Hub-badge.png" x="248" y="35" width="123" height="134"/><image class="" href="ui4/Hub-glass.png" x="198" y="182" width="101" height="100"/><g class="hub-lens"><image class="" href="ui4/Hub-lens.png" x="138.125" y="151.305" width="192" height="225"/></g><image href="ui4/Hub-title.svg" x="84.65625" y="42.3046875" width="90" height="78"/></svg></div><div class="ui4-dots" aria-hidden="true"><i class="active"></i><i></i><i></i><i></i></div></div></section>
+</div><div class="landscape hub-landscape" role="img" aria-label="Discoveries" data-entry="Hub" data-selected="false"><svg viewBox="0 0 480 480" aria-hidden="true"><image class="hub-zig" href="ui4/Hub-zig.png" x="205" y="199" width="213" height="213"/><image class="hub-photo" href="ui4/Hub-photo.png" x="26.117" y="179.648" width="125" height="124"/><image class="hub-badge" href="ui4/Hub-badge.png" x="248" y="35" width="123" height="134"/><image class="" href="ui4/Hub-glass.png" x="198" y="182" width="101" height="100"/><g class="hub-lens"><image class="" href="ui4/Hub-lens.png" x="138.125" y="151.305" width="192" height="225"/></g><image href="ui4/Hub-title.svg" x="69" y="30" width="205" height="105"/></svg></div><div class="ui4-dots" aria-hidden="true"><i class="active"></i><i></i><i></i><i></i></div></div></section>
   <button class="control shutter" data-control="photo" type="button" aria-label="拍照键"></button>
   <button class="control speech" data-control="talk" type="button" aria-label="说话键" aria-pressed="false"></button>
   <button class="control wheel" data-control="wheel" type="button" aria-label="滚轮，旋转或按下"></button>
@@ -608,7 +608,7 @@ window.homeDevice.onInput(async ({control, action, direction, source}) => {
     sectorStep += source === 'keyboard' ? direction : -direction;
     document.querySelector('.ui11-wheel').style.transform = 'rotate(' + (-sectorStep * 90) + 'deg)';
     const selected = sectorNames[(sectorStep % 4 + 4) % 4];
-    document.querySelector('.ui11-scene text').textContent = selected;
+    document.querySelector('.ui11-scene text').textContent = ({ ZigDex: 'collections', Hub: 'Discoveries' })[selected] || selected;
     for (const petal of petals) {
       petal.dataset.selected = String(petal.dataset.name === selected);
       petal.querySelector('.upright').style.transform = 'rotate(' + sectorStep * 90 + 'deg)';

diff --git a/ui1/ring.js b/ui1/ring.js
@@ -43,7 +43,7 @@
     });
     const selected = wrap(-Math.round(position));
     menu.querySelector('.center-icon').setAttribute('href','ui1/'+centerIcon(selected)+'.svg');
-    menu.querySelector('text').textContent = items[selected][0];
+    menu.querySelector('text').textContent = ({ ZigDex: 'collections', Hub: 'Discoveries' })[items[selected][0]] || items[selected][0];
   }
   function rotate(step) {
     target += step;
